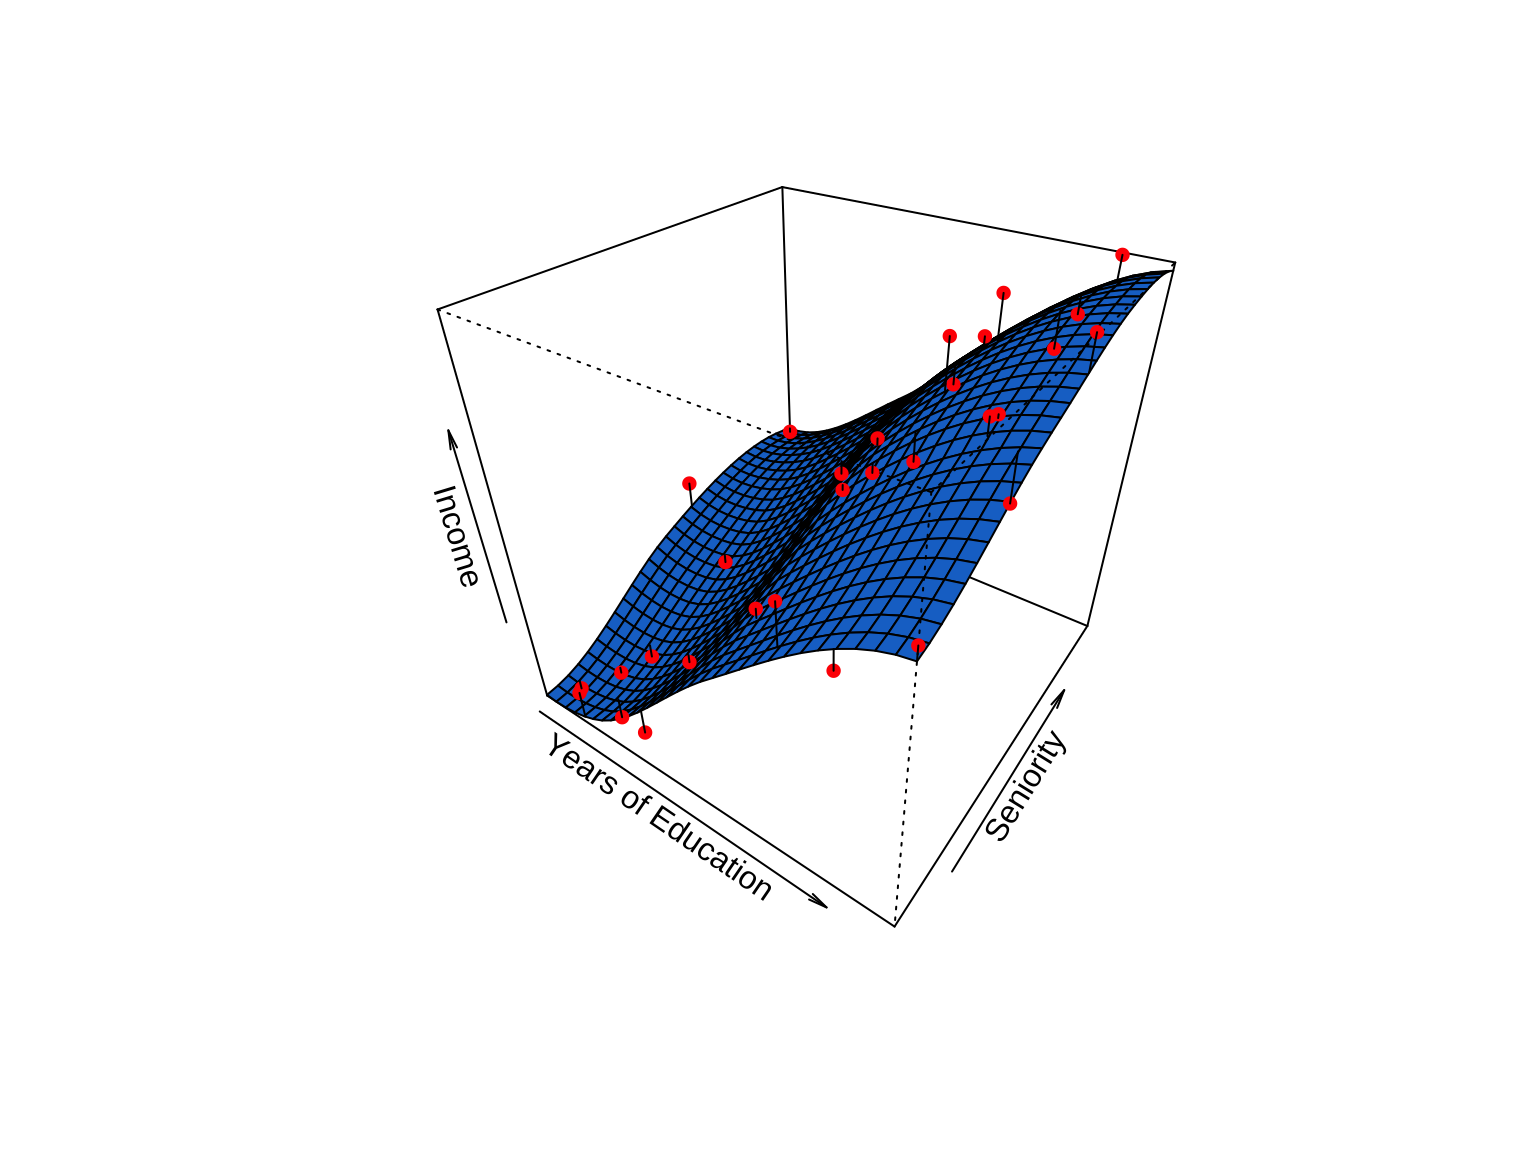
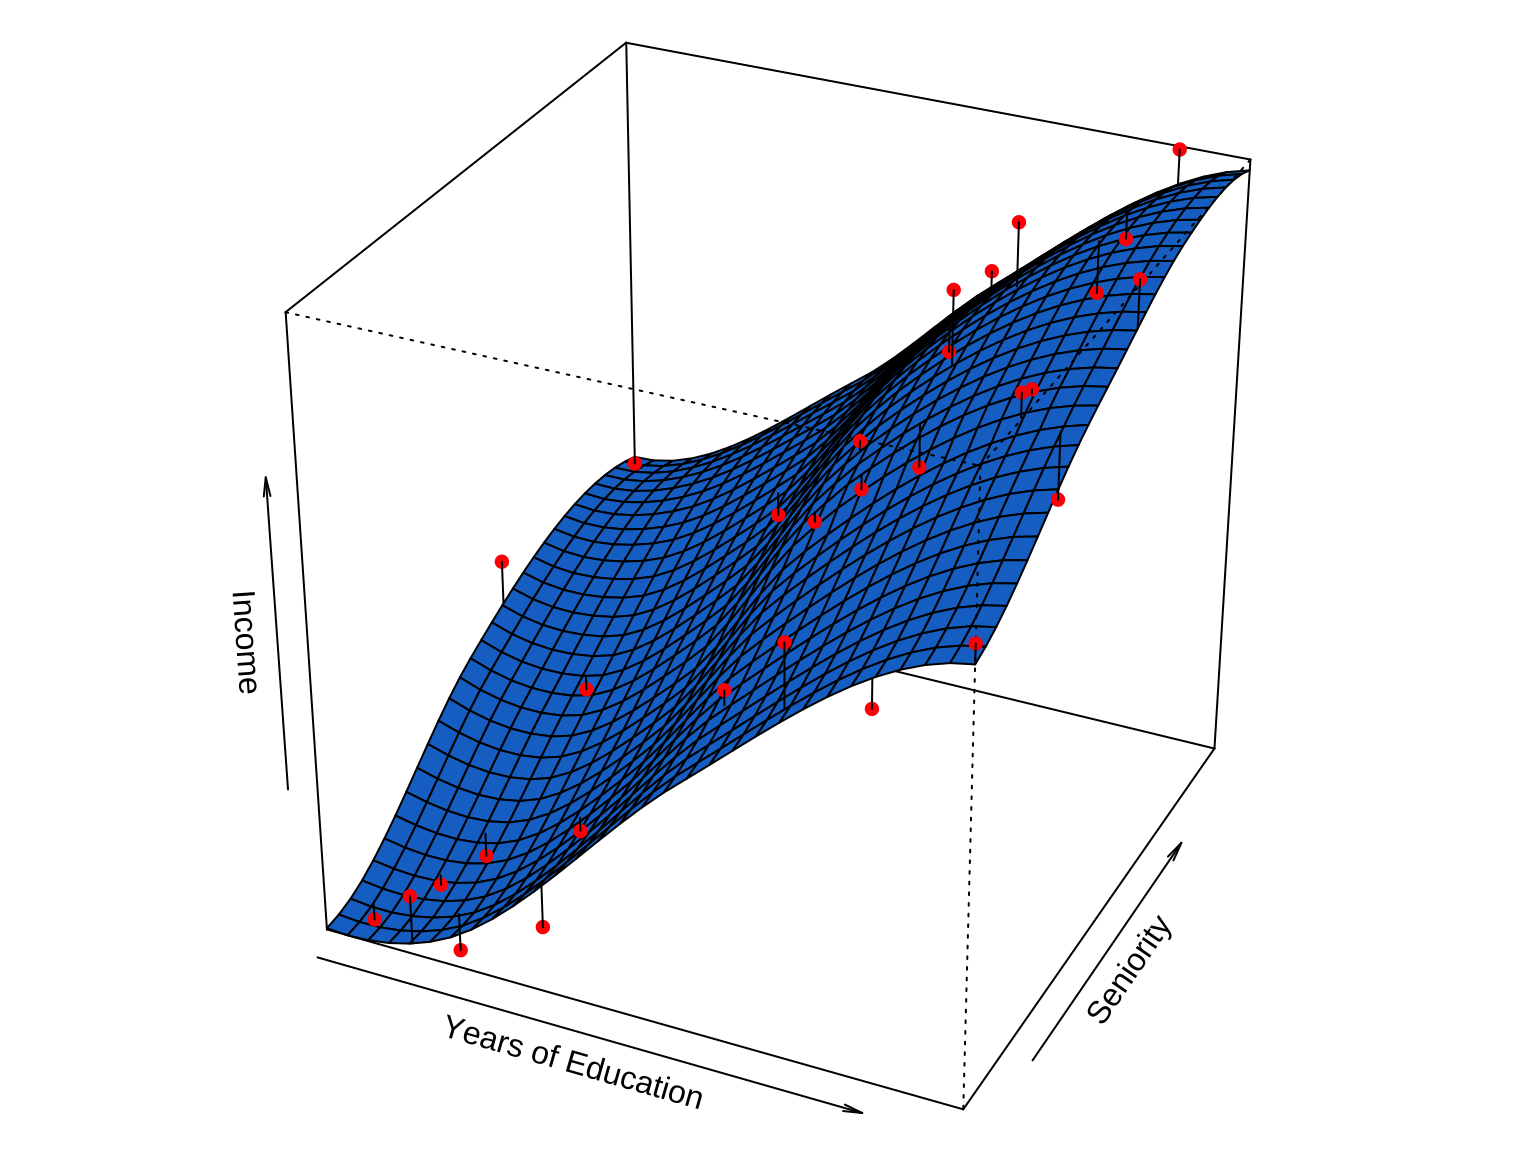
优化图形

diff --git a/content/post/2025-10-07-vis-loess/index.html b/content/post/2025-10-07-vis-loess/index.html
@@ -14,7 +14,7 @@ output:
     toc: true
     number_sections: true
 link-citations: true
-description: "局部多项式回归。"
+description: "可视化局部多项式回归结果，复现 ISLR 书中图 2.3。"
 ---
 
 
@@ -36,10 +36,13 @@ pred_function &lt;- function(x1, x2) {
 
 y_Income &lt;- outer(x_Education, x_Seniority, pred_function)</code></pre>
 <p>三维透视图可视化局部多项式回归的结果</p>
-<pre class="r"><code>point_pmat &lt;- persp(
+<pre class="r"><code>op &lt;- par(mar = rep(0, 4))
+point_pmat &lt;- persp(
   x = x_Education, y = x_Seniority, z = y_Income,
-  theta = 35, phi = 35, ltheta = -135, lphi = 0, expand = 1, 
-  col = &quot;dodgerblue3&quot;,
+  theta = 25, # 绕 z 轴旋转
+  phi = 30,  # 绕 x 轴旋转
+  expand = 1, 
+  col = &quot;dodgerblue3&quot;, r = 10, 
   xlab = &quot;Years of Education&quot;, ylab = &quot;Seniority&quot;, zlab = &quot;Income&quot;
 )
 
@@ -58,3 +61,4 @@ for (i in 1:dim(Income)[1]) {
 图 1: 局部多项式回归结果的三维可视化
 </p>
 </div>
+<pre class="r"><code>on.exit(par(op))</code></pre>
